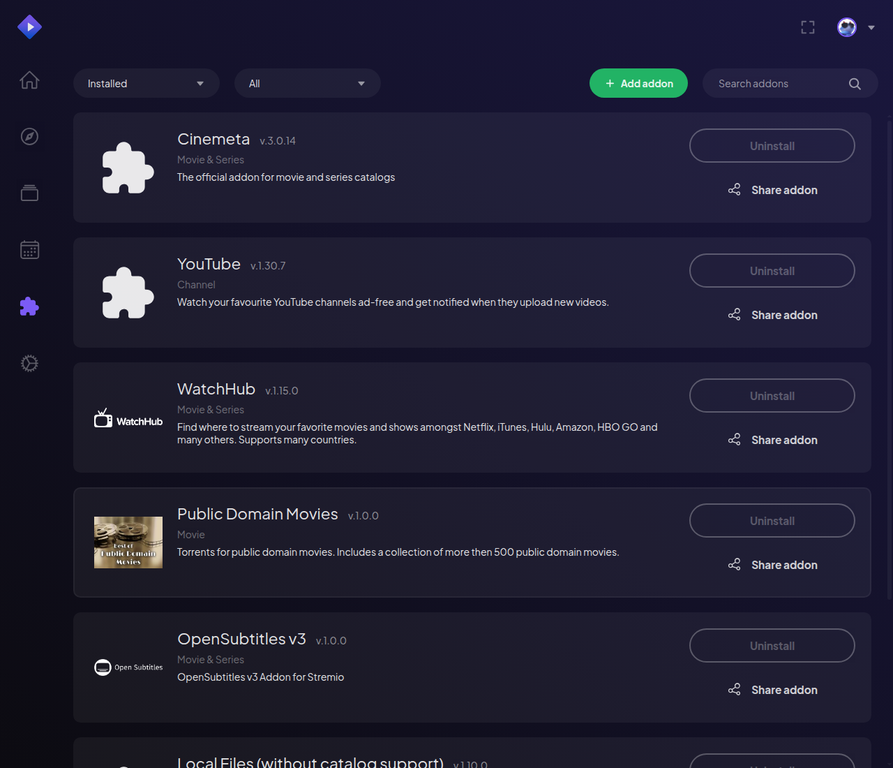
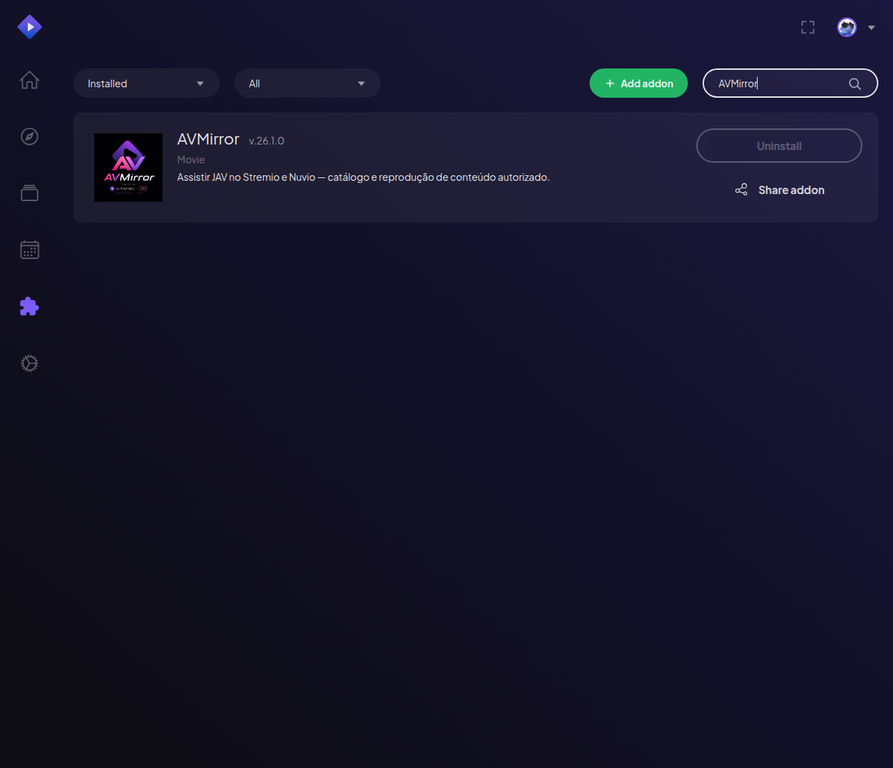
Refaz prints limpos do AVMirror no Stremio

diff --git a/stremio-capture-notes.md b/stremio-capture-notes.md
@@ -16,3 +16,11 @@ A rota direta do Stremio carregou `AVMirror — Jav.guru — Novos` com os filtr
 ## Recaptura após carregamento completo
 
 A nova captura foi feita somente depois de os cards exibirem os pôsteres e o painel lateral mostrar os detalhes do título selecionado. A imagem anterior, feita durante o carregamento, será substituída por esta versão completa.
+
+## Sequência refeita
+
+O primeiro print foi preparado com a busca `AVMirror`, ocultando visualmente os addons padrão protegidos. Após aguardar, o logo, nome, versão 26.1.0 e descrição do AVMirror estavam carregados e visíveis.
+
+## Prints finais refeitos
+
+O primeiro print final foi capturado após o carregamento do logo e dos dados do AVMirror, com a lista filtrada para exibir somente o nosso addon. O segundo foi capturado depois que os pôsteres do catálogo e o painel de detalhes terminaram de carregar.
